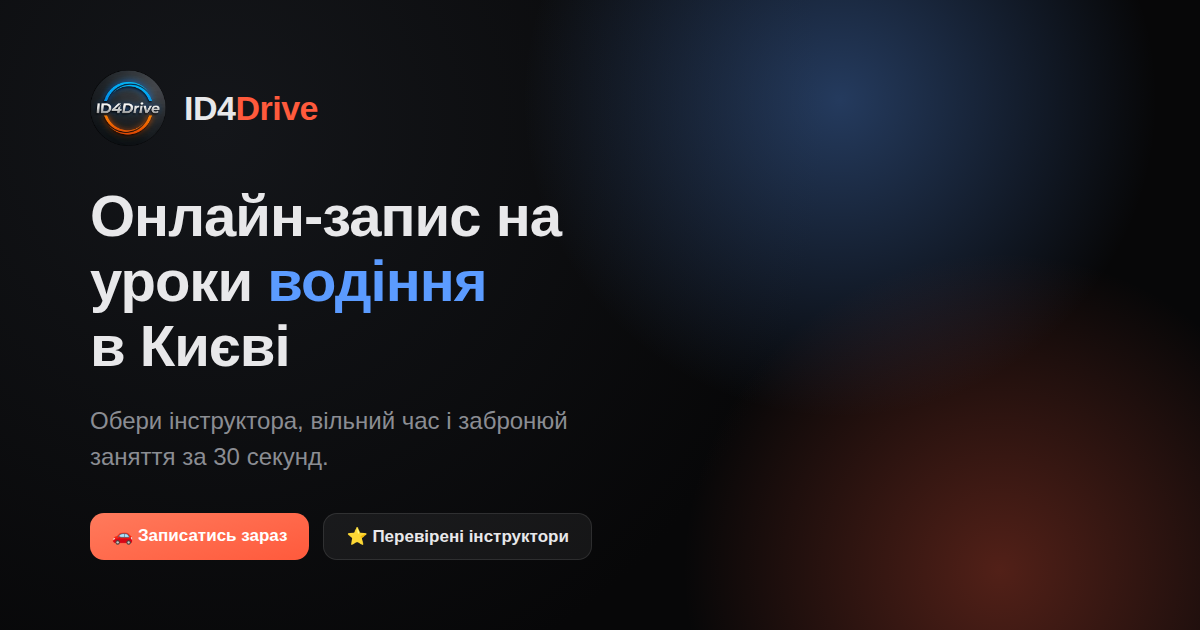
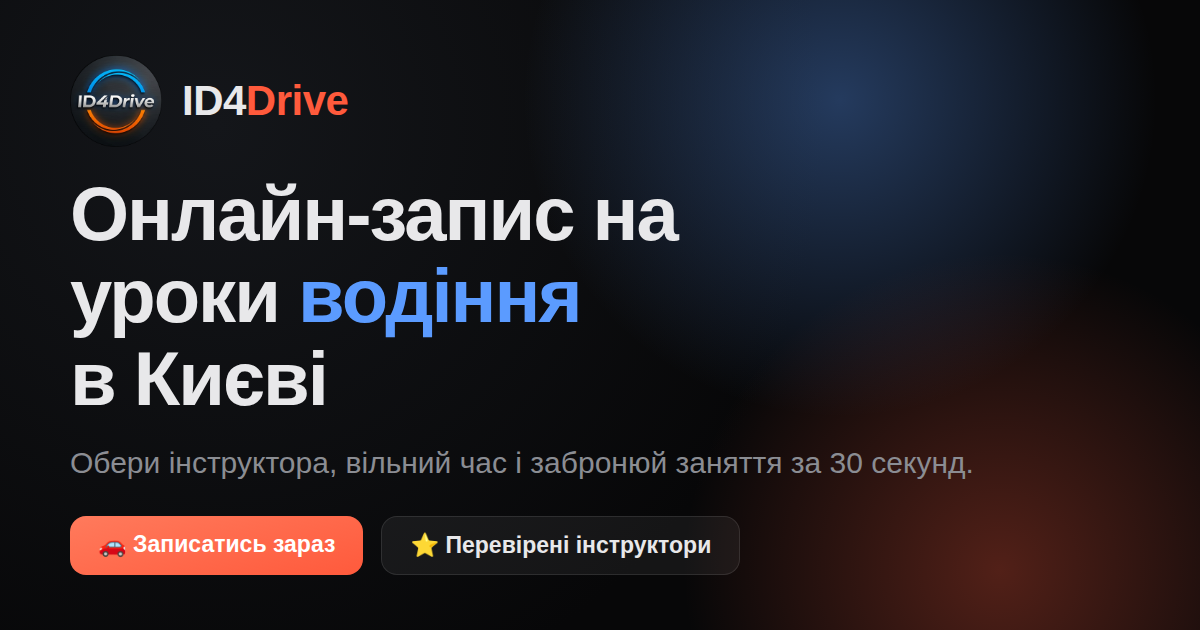
v08.09.18 — збільшив шрифт і елементи на OG превью в 2 рази
Claude-Session: https://claude.ai/code/session_01Aa22m99xwuMps42ycP55yR

diff --git a/src/version.js b/src/version.js
@@ -1,1 +1,1 @@
-export const APP_VERSION = "v08.09.17";
+export const APP_VERSION = "v08.09.18";
